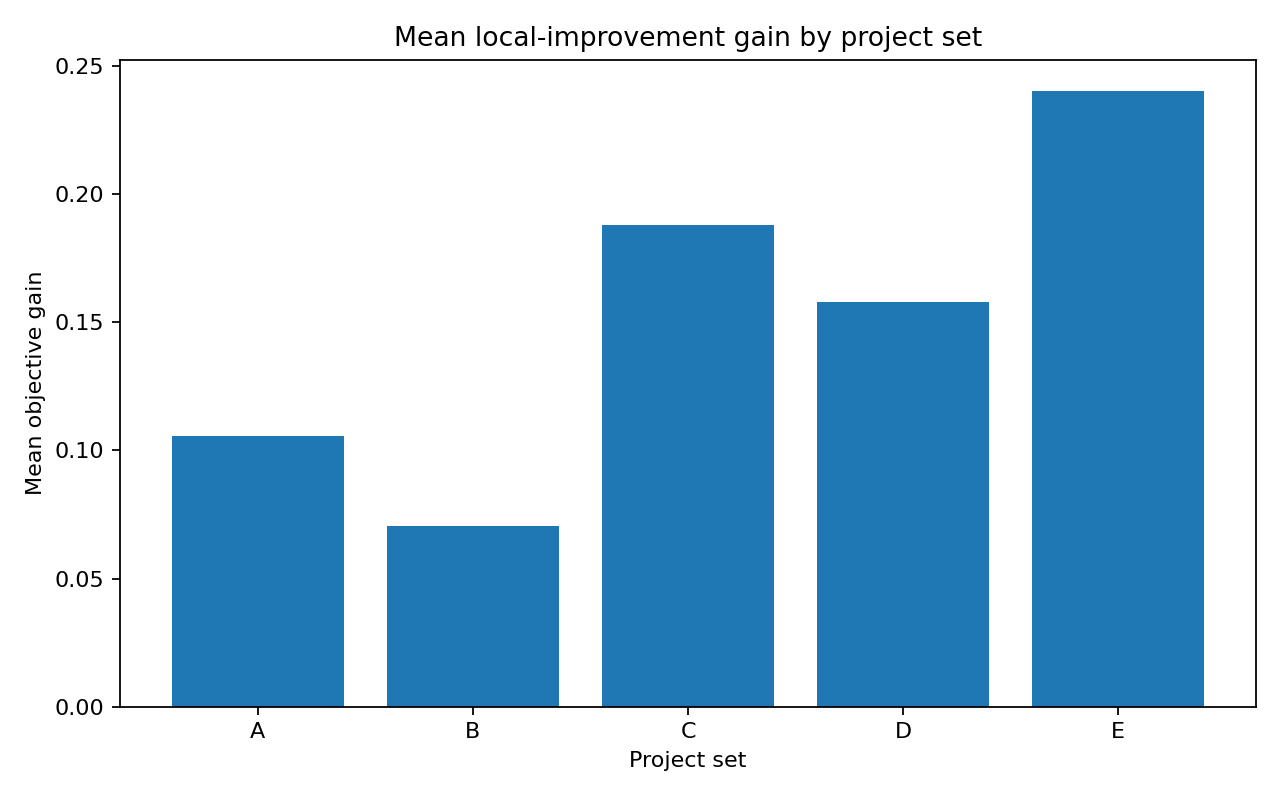
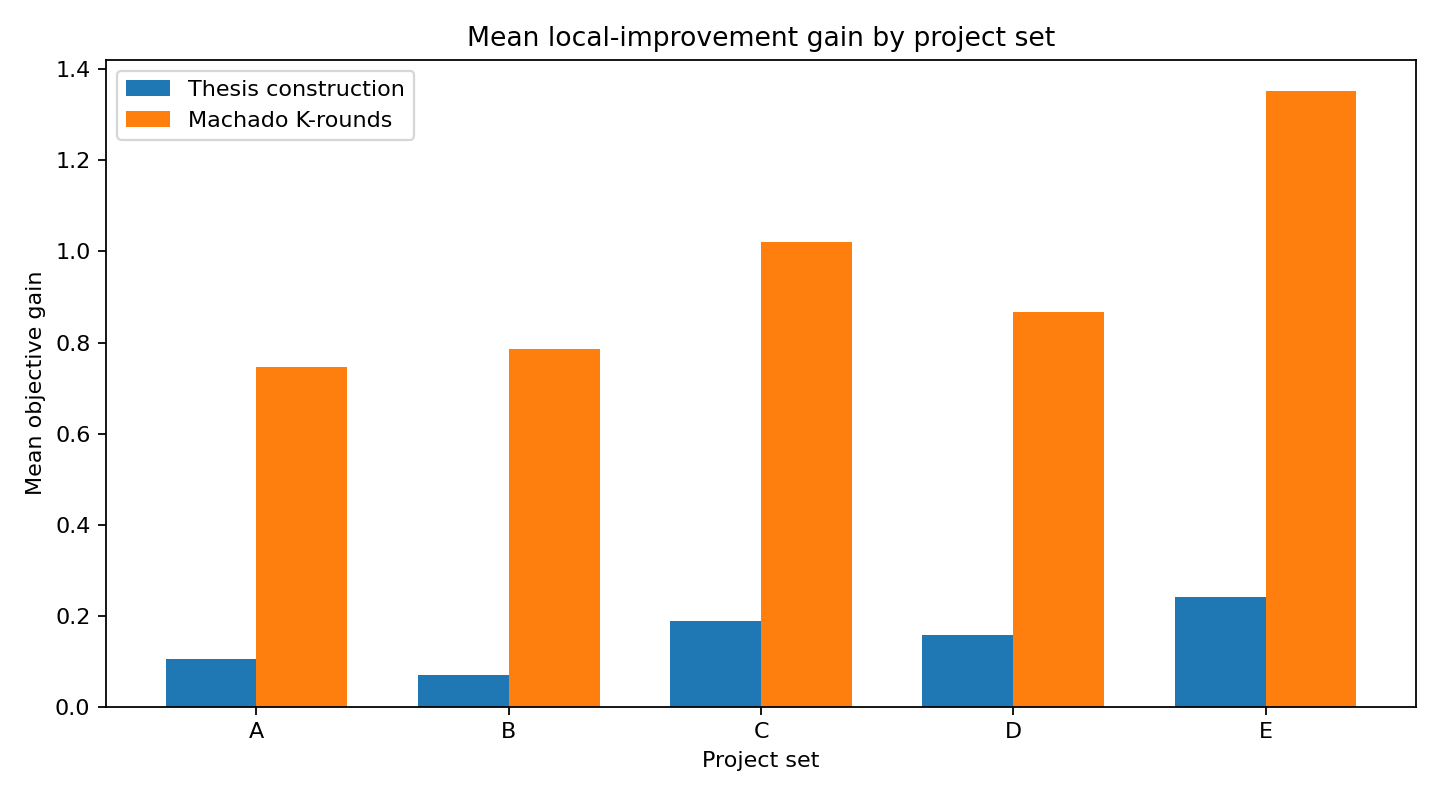
Update local improvement plotting & regenerate plots

diff --git a/scripts/plot_batch_results.py b/scripts/plot_batch_results.py
@@ -243,8 +243,12 @@ def _plot_metric_by_method(
         ordered=True,
     )
     grouped = grouped.sort_values("method_label")
-    # Don't draw error bars for methods other than random, even if they have a std column.
-    grouped.loc[grouped["method_label"] != "random", f"{metric}_error"] = None
+
+    # Don't draw error bars for methods other than random.
+    grouped.loc[
+        grouped["method_label"] != "random",
+        f"{metric}_error",
+    ] = None
 
     plt.figure(figsize=(10, 5))
     plt.bar(
@@ -383,35 +387,120 @@ def plot_runtime_by_participant_count(
 
 
 def plot_local_improvement_gain(
-    runs: pd.DataFrame,
+    methods: pd.DataFrame,
     output_dir: Path,
     dpi: int,
 ) -> None:
-    """Plot mean local-improvement gain by project set."""
+    """Compare local-improvement gains for both construction procedures.
 
-    if "local_improvement_gain" not in runs.columns:
+    Gains are calculated within each batch run before averaging by project set:
+
+    - thesis - thesis_no_li
+    - machado_k_rounds_li - machado_k_rounds
+
+    Pairing rows before aggregation avoids comparing methods across mismatched
+    participant sets, project sets, or weight profiles.
+    """
+
+    required_columns = {"project_set", "method_label", "objective_score"}
+    if not required_columns.issubset(methods.columns):
         return
 
-    df = runs.copy()
-    df["local_improvement_gain"] = numeric_column(df, "local_improvement_gain")
+    df = methods.copy()
+    df["objective_score"] = numeric_column(df, "objective_score")
+    df = df.dropna(subset=["project_set", "method_label", "objective_score"])
+
+    pair_definitions = [
+        ("thesis_no_li", "thesis", "Thesis construction"),
+        ("machado_k_rounds", "machado_k_rounds_li", "Machado K-rounds"),
+    ]
+
+    # run_id identifies one participant/project/weight configuration. Retain
+    # explicit fallback keys so older batch exports can still be plotted.
+    if "run_id" in df.columns:
+        pairing_columns = ["run_id", "project_set"]
+    else:
+        pairing_columns = [
+            column
+            for column in ("participant_set", "project_set", "weight_profile")
+            if column in df.columns
+        ]
+
+    if "project_set" not in pairing_columns:
+        pairing_columns.append("project_set")
+
+    gain_frames: list[pd.DataFrame] = []
+
+    for before_method, after_method, construction_label in pair_definitions:
+        before = (
+            df[df["method_label"] == before_method]
+            [pairing_columns + ["objective_score"]]
+            .rename(columns={"objective_score": "objective_before"})
+        )
+        after = (
+            df[df["method_label"] == after_method]
+            [pairing_columns + ["objective_score"]]
+            .rename(columns={"objective_score": "objective_after"})
+        )
+
+        paired = before.merge(after, on=pairing_columns, how="inner")
+        if paired.empty:
+            continue
+
+        paired["local_improvement_gain"] = (
+            paired["objective_after"] - paired["objective_before"]
+        )
+        paired["construction"] = construction_label
+        gain_frames.append(
+            paired[["project_set", "construction", "local_improvement_gain"]]
+        )
+
+    if not gain_frames:
+        return
+
+    gains = pd.concat(gain_frames, ignore_index=True)
     grouped = (
-        df.groupby("project_set", as_index=False)["local_improvement_gain"]
+        gains.groupby(["project_set", "construction"], as_index=False)
+        ["local_improvement_gain"]
         .mean()
         .dropna()
-        .sort_values("project_set")
+        .sort_values(["project_set", "construction"])
     )
 
     if grouped.empty:
         return
 
-    plt.figure(figsize=(8, 5))
-    plt.bar(
-        [str.upper(value) for value in grouped["project_set"].astype(str)],
-        grouped["local_improvement_gain"],
-    )
+    project_sets = sorted(grouped["project_set"].astype(str).unique())
+    constructions = ["Thesis construction", "Machado K-rounds"]
+    x_positions = list(range(len(project_sets)))
+    bar_width = 0.36
+
+    plt.figure(figsize=(9, 5))
+
+    for construction_index, construction in enumerate(constructions):
+        values: list[float] = []
+        for project_set in project_sets:
+            match = grouped[
+                (grouped["project_set"].astype(str) == project_set)
+                & (grouped["construction"] == construction)
+            ]
+            values.append(
+                float(match["local_improvement_gain"].iloc[0])
+                if not match.empty
+                else 0.0
+            )
+
+        offsets = [
+            position + (construction_index - 0.5) * bar_width
+            for position in x_positions
+        ]
+        plt.bar(offsets, values, width=bar_width, label=construction)
+
     plt.title("Mean local-improvement gain by project set")
     plt.xlabel("Project set")
     plt.ylabel("Mean objective gain")
+    plt.xticks(x_positions, [value.upper() for value in project_sets])
+    plt.legend()
     save_current_plot(output_dir / "local_improvement_gain_by_project_set.png", dpi)
 
 
@@ -501,14 +590,22 @@ def plot_method_scores_by_project_set(
             for position in x_positions
         ]
 
-        plt.bar(
-            offsets,
-            values,
-            width=bar_width,
-            label=method,
-            yerr=errors,
-            capsize=3 if method == "random" else 0,
-        )
+        if method == "random":
+            plt.bar(
+                offsets,
+                values,
+                width=bar_width,
+                label=method,
+                yerr=errors,
+                capsize=3,
+            )
+        else:
+            plt.bar(
+                offsets,
+                values,
+                width=bar_width,
+                label=method,
+            )
 
     plt.title("Mean objective score by project set and method")
     plt.xlabel("Project set")
@@ -555,7 +652,7 @@ def main() -> int:
     plot_min_team_score_by_method(methods, output_dir, args.dpi)
     plot_runtime_by_project_set(runs, output_dir, args.dpi)
     plot_runtime_by_participant_count(runs, output_dir, args.dpi)
-    plot_local_improvement_gain(runs, output_dir, args.dpi)
+    plot_local_improvement_gain(methods, output_dir, args.dpi)
     plot_objective_by_weight_profile(runs, output_dir, args.dpi)
     plot_method_scores_by_project_set(methods, output_dir, args.dpi)
 
